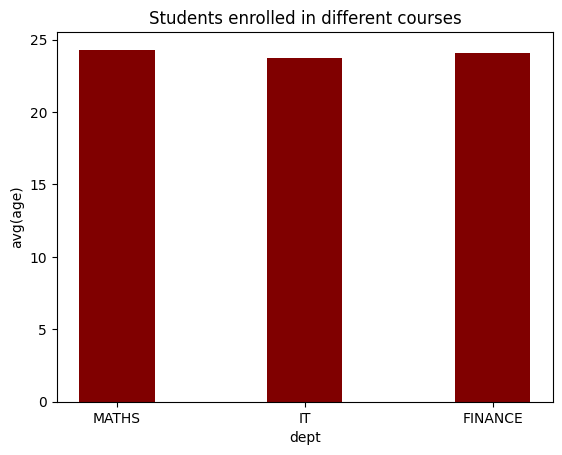
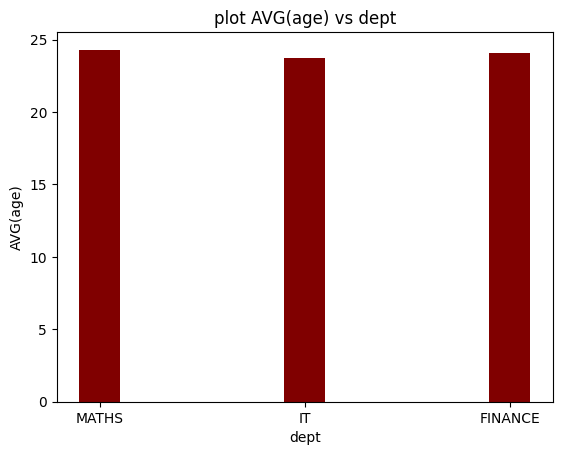
python-slight-changes

diff --git a/script.py b/script.py
@@ -19,11 +19,11 @@ def to_image(li):
     axisx=[e[0] for e in data2]
     axisy=[e[1] for e in data2]
     plt.bar( axisx,axisy, color ='maroon',
-        width = 0.4)
+        width = 0.2)
 
     plt.xlabel(xaxis)
     plt.ylabel(yaxis)
-    plt.title("Students enrolled in different courses")
+    plt.title("plot "+yaxis+" vs "+xaxis)
     if os.path.exists("./abc.png"):
         os.remove("abc.png")
     plt.savefig('abc.png', bbox_inches='tight')
